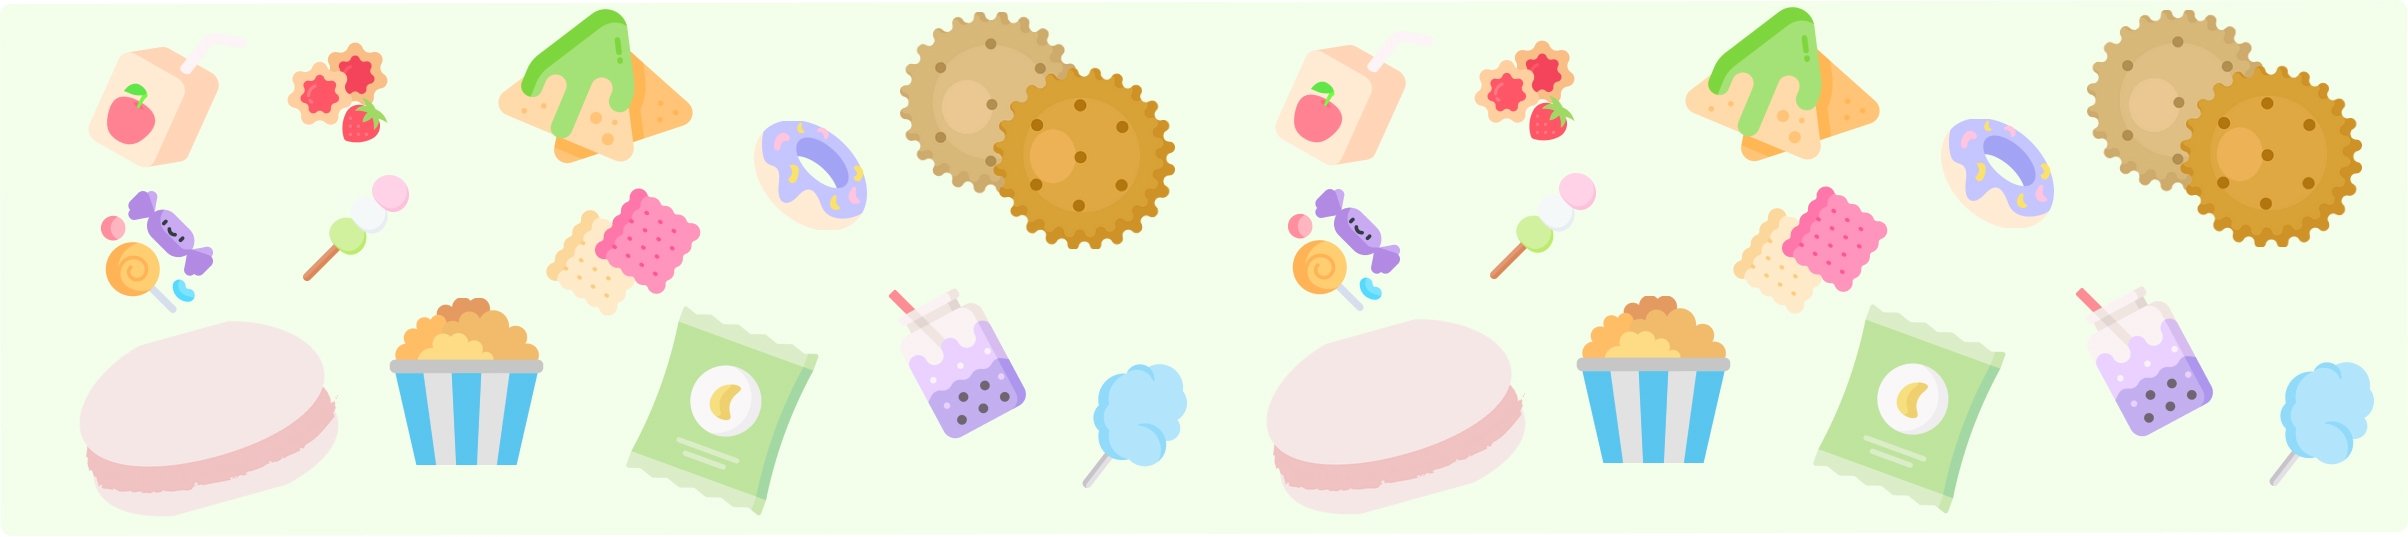
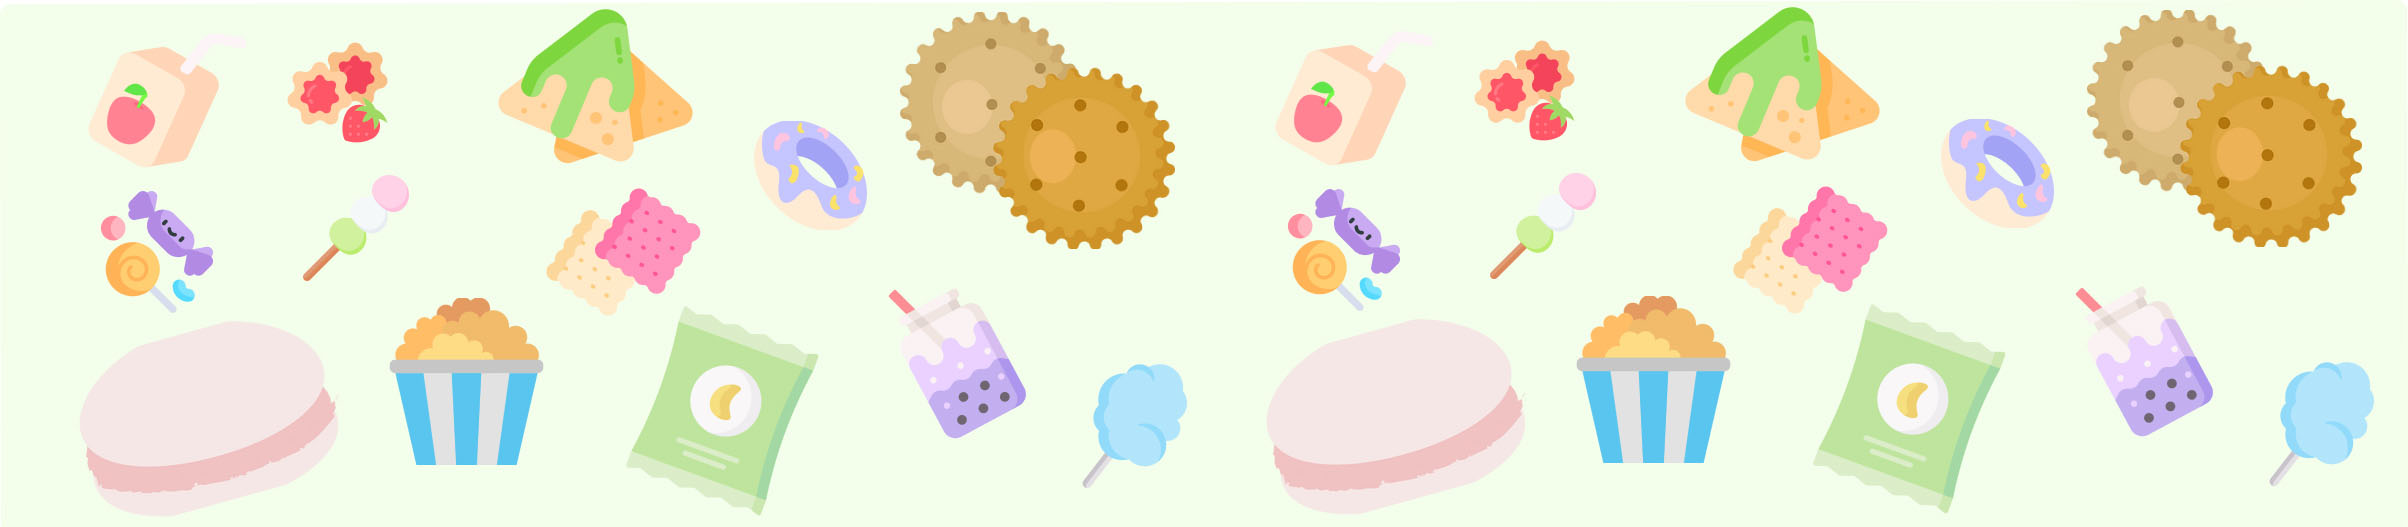
fix small error in header img + deleted extra code

diff --git a/src/styles/Header.module.css b/src/styles/Header.module.css
@@ -1,7 +1,6 @@
 .Header {
 	font-family: 'Space Mono', monospace;
-	padding: 0px;
-	margin-bottom: 200px;
+	margin-bottom: 100px;
 }
 
 .bgWrap {
@@ -24,10 +23,9 @@
 
 .snaxBox {
 	display: inline-block;
-	background-color: rgb(245, 249, 255);
 	border: rgb(0, 0, 0) 1px solid;
 	position: relative;
-	background: linear-gradient(90deg, #fae6f8 0%, #fbf5ff 100%);
+	background: linear-gradient(90deg, #ffe3fc 0%, #e6fff9 100%);
 	text-align: center;
 	padding: 25px;
 	margin-top: 100px;
@@ -46,20 +44,4 @@
 .snaxBox p {
 	padding: 0 40px;
 	color: rgb(0, 0, 0);
-}
-
-.wave::after {
-	content: '';
-	position: absolute;
-	left: 0;
-	bottom: 0;
-	right: 0;
-	background-repeat: repeat;
-	height: 15px;
-	background-size: 40px 20px;
-	background-image: radial-gradient(
-		circle at 10px 15px,
-		#fff 12px,
-		transparent 13px
-	);
 }

diff --git a/src/styles/Home.module.css b/src/styles/Home.module.css
@@ -1,7 +1,6 @@
 @import url('https://fonts.googleapis.com/css2?family=Poppins:wght@100;200;300&family=Space+Mono:wght@400;700&display=swap');
 
 .main {
-	/* background-color: rgb(255, 255, 241); */
 	user-select: none;
 }
 

diff --git a/src/styles/globals.css b/src/styles/globals.css
@@ -2,7 +2,7 @@ html,
 body {
 	max-width: 100vw;
 	overflow-x: hidden;
-	background: rgb(255, 255, 241);
+	background: #f3feeb;
 	color: black;
 }
 
